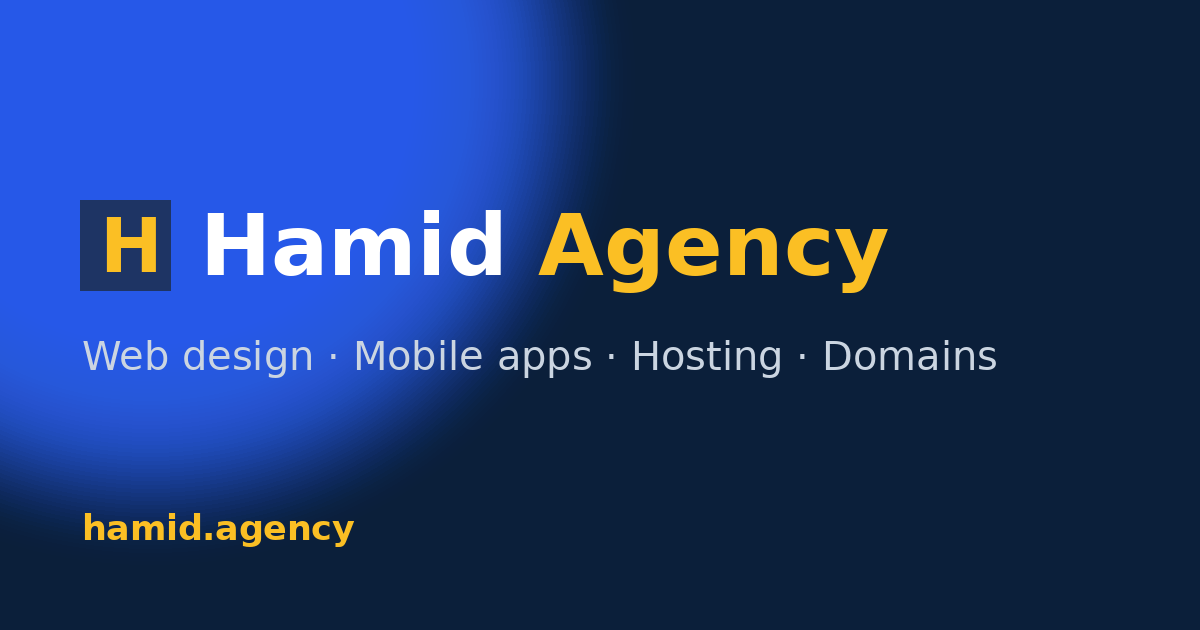
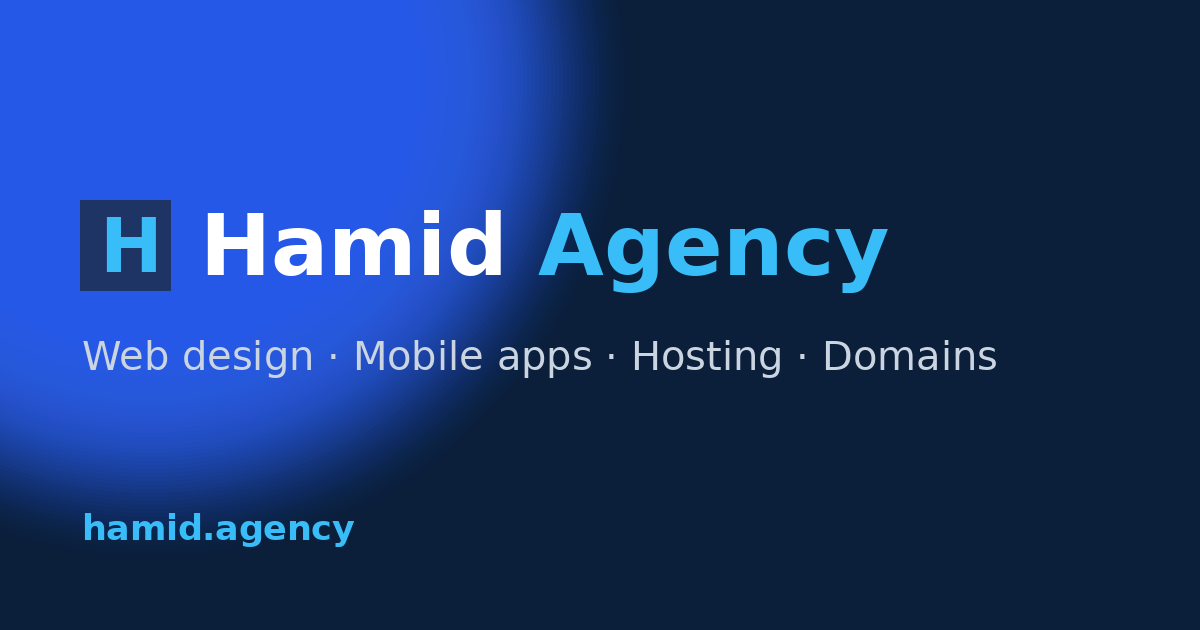
Vurğu rəngi: kəhrəba əvəzinə açıq mavi
- Tailwind accent palitrası açıq mavi (sky) çalarlarına dəyişdirildi: düymələr, gradient başlıq,
  loqo, nişanlar, xidmət ikonları
- 'İcradadır' statusu bənövşəyi (açıq mavi ilə qarışmasın), rəy ulduzları qızılı qalır
- favicon və OG şəkli yeni rəngdə

Claude-Session: https://claude.ai/code/session_01VLACc1hcHykPHyaAzSMduA

Changed region(s): [[0.4317, 0.3317, 0.74, 0.4825], [0.0617, 0.8143, 0.3083, 0.8746], [0.0617, 0.3317, 0.1542, 0.4524]]

diff --git a/resources/css/app.css b/resources/css/app.css
@@ -30,7 +30,7 @@
         @apply btn bg-slate-900 text-white shadow-sm hover:-translate-y-0.5 hover:bg-slate-800 hover:shadow-lg focus-visible:ring-brand-500 dark:bg-white dark:text-slate-900 dark:hover:bg-slate-100;
     }
     .btn-accent {
-        @apply btn bg-gradient-to-r from-accent-300 via-accent-400 to-accent-500 text-brand-950 shadow-lg shadow-accent-500/25 hover:-translate-y-0.5 hover:shadow-xl hover:shadow-accent-500/40 focus-visible:ring-accent-500;
+        @apply btn bg-gradient-to-r from-accent-300 to-accent-400 text-brand-950 shadow-lg shadow-accent-500/25 hover:-translate-y-0.5 hover:shadow-xl hover:shadow-accent-500/40 focus-visible:ring-accent-500;
     }
     .btn-outline {
         @apply btn border border-slate-300 bg-white/60 text-slate-800 backdrop-blur hover:border-slate-400 hover:bg-white focus-visible:ring-brand-500 dark:border-white/15 dark:bg-white/5 dark:text-slate-100 dark:hover:bg-white/10;
@@ -76,13 +76,13 @@
         @apply inline-flex items-center gap-2 rounded-full border border-accent-500/30 bg-accent-500/10 px-3 py-1 text-xs font-semibold uppercase tracking-wider text-accent-700 dark:text-accent-300;
     }
     .text-gradient {
-        @apply bg-gradient-to-r from-accent-200 via-accent-400 to-orange-400 bg-clip-text text-transparent;
+        @apply bg-gradient-to-r from-accent-200 via-accent-300 to-cyan-200 bg-clip-text text-transparent;
     }
     .text-gradient-brand {
         @apply bg-gradient-to-r from-brand-600 via-brand-500 to-sky-500 bg-clip-text text-transparent dark:from-brand-300 dark:via-sky-300 dark:to-cyan-200;
     }
     .icon-tile {
-        @apply grid h-12 w-12 shrink-0 place-items-center rounded-2xl bg-gradient-to-br from-brand-500 to-brand-700 text-white shadow-lg shadow-brand-600/30;
+        @apply grid h-12 w-12 shrink-0 place-items-center rounded-2xl bg-gradient-to-br from-accent-400 to-brand-600 text-white shadow-lg shadow-accent-500/30;
     }
     .icon-tile-soft {
         @apply grid h-11 w-11 shrink-0 place-items-center rounded-2xl bg-brand-50 text-brand-700 ring-1 ring-brand-100 dark:bg-brand-500/10 dark:text-brand-300 dark:ring-brand-500/20;

diff --git a/tailwind.config.js b/tailwind.config.js
@@ -40,16 +40,17 @@ export default {
                     900: '#1b2c80',
                     950: '#0b1f3a',
                 },
-                // Vurğu rəngi — kəhrəba
+                // Vurğu rəngi — açıq mavi
                 accent: {
-                    50: '#fffbeb',
-                    100: '#fef3c7',
-                    200: '#fde68a',
-                    300: '#fcd34d',
-                    400: '#fbbf24',
-                    500: '#f59e0b',
-                    600: '#d97706',
-                    700: '#b45309',
+                    50: '#f0f9ff',
+                    100: '#e0f2fe',
+                    200: '#bae6fd',
+                    300: '#7dd3fc',
+                    400: '#38bdf8',
+                    500: '#0ea5e9',
+                    600: '#0284c7',
+                    700: '#0369a1',
+                    800: '#075985',
                 },
             },
         },

diff --git a/resources/views/admin/testimonials/index.blade.php b/resources/views/admin/testimonials/index.blade.php
@@ -10,7 +10,7 @@
             <tr>
                 <td class="px-4 py-3"><span class="font-medium text-slate-900 dark:text-white">{{ $item->author_name }}</span><span class="block text-xs text-slate-500">{{ $item->company }}</span></td>
                 <td class="max-w-md px-4 py-3 text-slate-600 dark:text-slate-400">{{ \Illuminate\Support\Str::limit($item->content_az, 90) }}</td>
-                <td class="whitespace-nowrap px-4 py-3 text-accent-500">{{ str_repeat('★', $item->rating) }}</td>
+                <td class="whitespace-nowrap px-4 py-3 text-amber-400">{{ str_repeat('★', $item->rating) }}</td>
                 <td class="px-4 py-3"><x-admin.active :value="$item->is_active" /></td>
                 <td class="px-4 py-3"><x-admin.row-actions :edit="route('admin.testimonials.edit', $item)" :destroy="route('admin.testimonials.destroy', $item)" /></td>
             </tr>

diff --git a/resources/views/pages/home.blade.php b/resources/views/pages/home.blade.php
@@ -7,7 +7,7 @@
     {{-- HERO: başlıq + domen axtarışı (birinci ekranda əsas iki hərəkət) --}}
     <section class="relative isolate overflow-hidden bg-ink text-white">
         <div class="pointer-events-none absolute inset-0 -z-10" aria-hidden="true"
-             style="background: radial-gradient(60% 50% at 15% 0%, rgba(52,102,246,.35), transparent 70%), radial-gradient(40% 40% at 90% 100%, rgba(245,158,11,.14), transparent 70%);"></div>
+             style="background: radial-gradient(60% 50% at 15% 0%, rgba(52,102,246,.35), transparent 70%), radial-gradient(40% 40% at 90% 100%, rgba(56,189,248,.2), transparent 70%);"></div>
 
         <div class="container grid items-center gap-12 pb-20 pt-32 sm:pt-40 lg:grid-cols-2 lg:gap-16 lg:pb-28">
             <div>

diff --git a/resources/views/components/testimonial-card.blade.php b/resources/views/components/testimonial-card.blade.php
@@ -1,7 +1,7 @@
 @props(['testimonial'])
 <figure class="card card-hover flex h-full flex-col p-7" data-reveal>
     <x-icon name="quote" class="h-8 w-8 text-brand-200 dark:text-brand-500/40" />
-    <div class="mt-4 flex gap-0.5 text-accent-500" aria-label="{{ __('home.testimonials.rating', ['rating' => $testimonial->rating]) }}">
+    <div class="mt-4 flex gap-0.5 text-amber-400" aria-label="{{ __('home.testimonials.rating', ['rating' => $testimonial->rating]) }}">
         @for ($i = 1; $i <= 5; $i++)
             <x-icon name="star" class="h-4 w-4 {{ $i <= $testimonial->rating ? 'fill-current' : 'text-slate-300 dark:text-slate-600' }}" />
         @endfor

diff --git a/resources/views/components/order-status.blade.php b/resources/views/components/order-status.blade.php
@@ -2,7 +2,7 @@
 @php
     $styles = [
         'new' => 'bg-accent-100 text-accent-800 ring-accent-200 dark:bg-accent-500/15 dark:text-accent-300 dark:ring-accent-500/30',
-        'contacted' => 'bg-sky-100 text-sky-800 ring-sky-200 dark:bg-sky-500/15 dark:text-sky-300 dark:ring-sky-500/30',
+        'contacted' => 'bg-violet-100 text-violet-800 ring-violet-200 dark:bg-violet-500/15 dark:text-violet-300 dark:ring-violet-500/30',
         'completed' => 'bg-green-100 text-green-800 ring-green-200 dark:bg-green-500/15 dark:text-green-300 dark:ring-green-500/30',
     ];
 @endphp

diff --git a/resources/views/components/admin/status.blade.php b/resources/views/components/admin/status.blade.php
@@ -2,7 +2,7 @@
 @php
     $styles = [
         'new' => 'bg-accent-100 text-accent-700 dark:bg-accent-500/20 dark:text-accent-300',
-        'contacted' => 'bg-blue-100 text-blue-700 dark:bg-blue-500/20 dark:text-blue-300',
+        'contacted' => 'bg-violet-100 text-violet-700 dark:bg-violet-500/20 dark:text-violet-300',
         'completed' => 'bg-green-100 text-green-700 dark:bg-green-500/20 dark:text-green-300',
     ];
 @endphp
